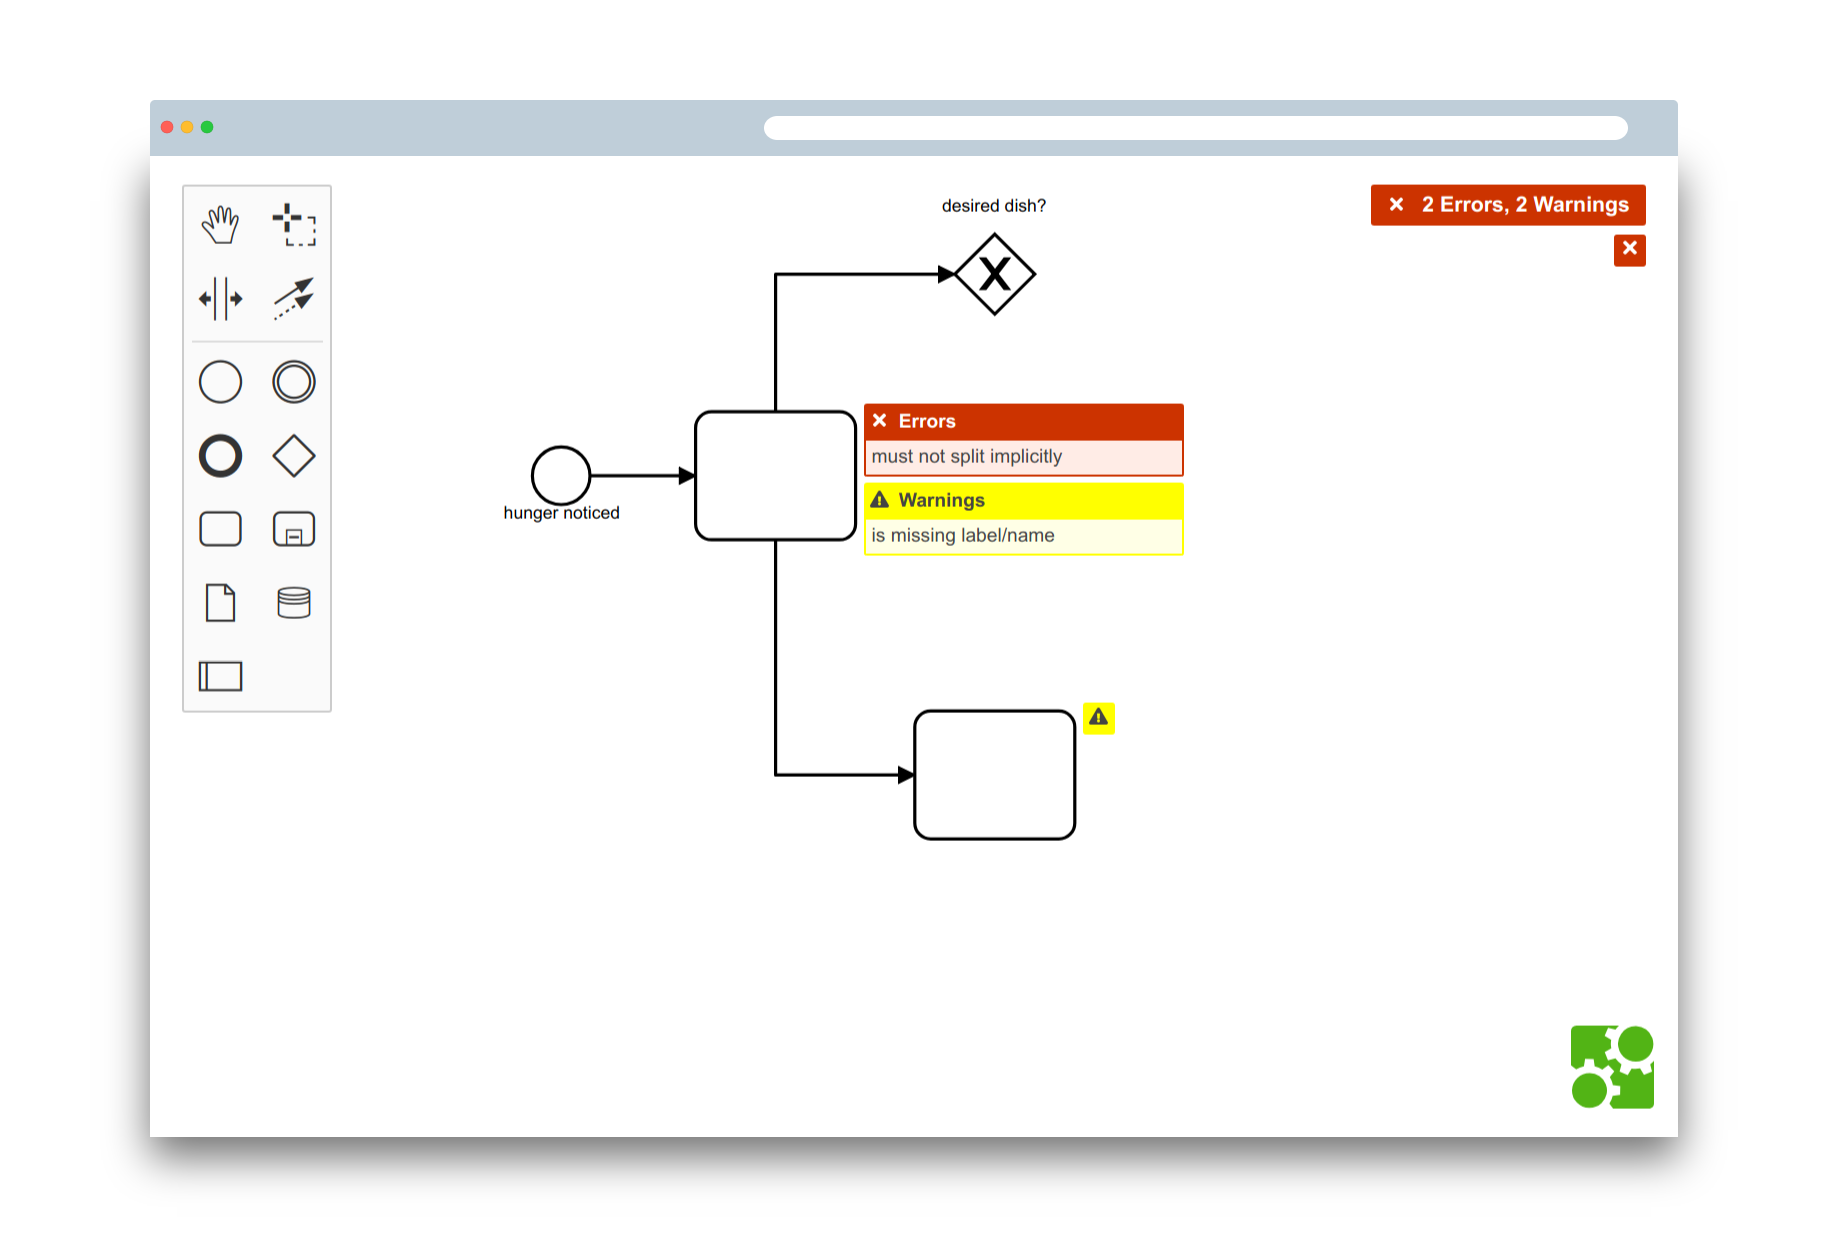
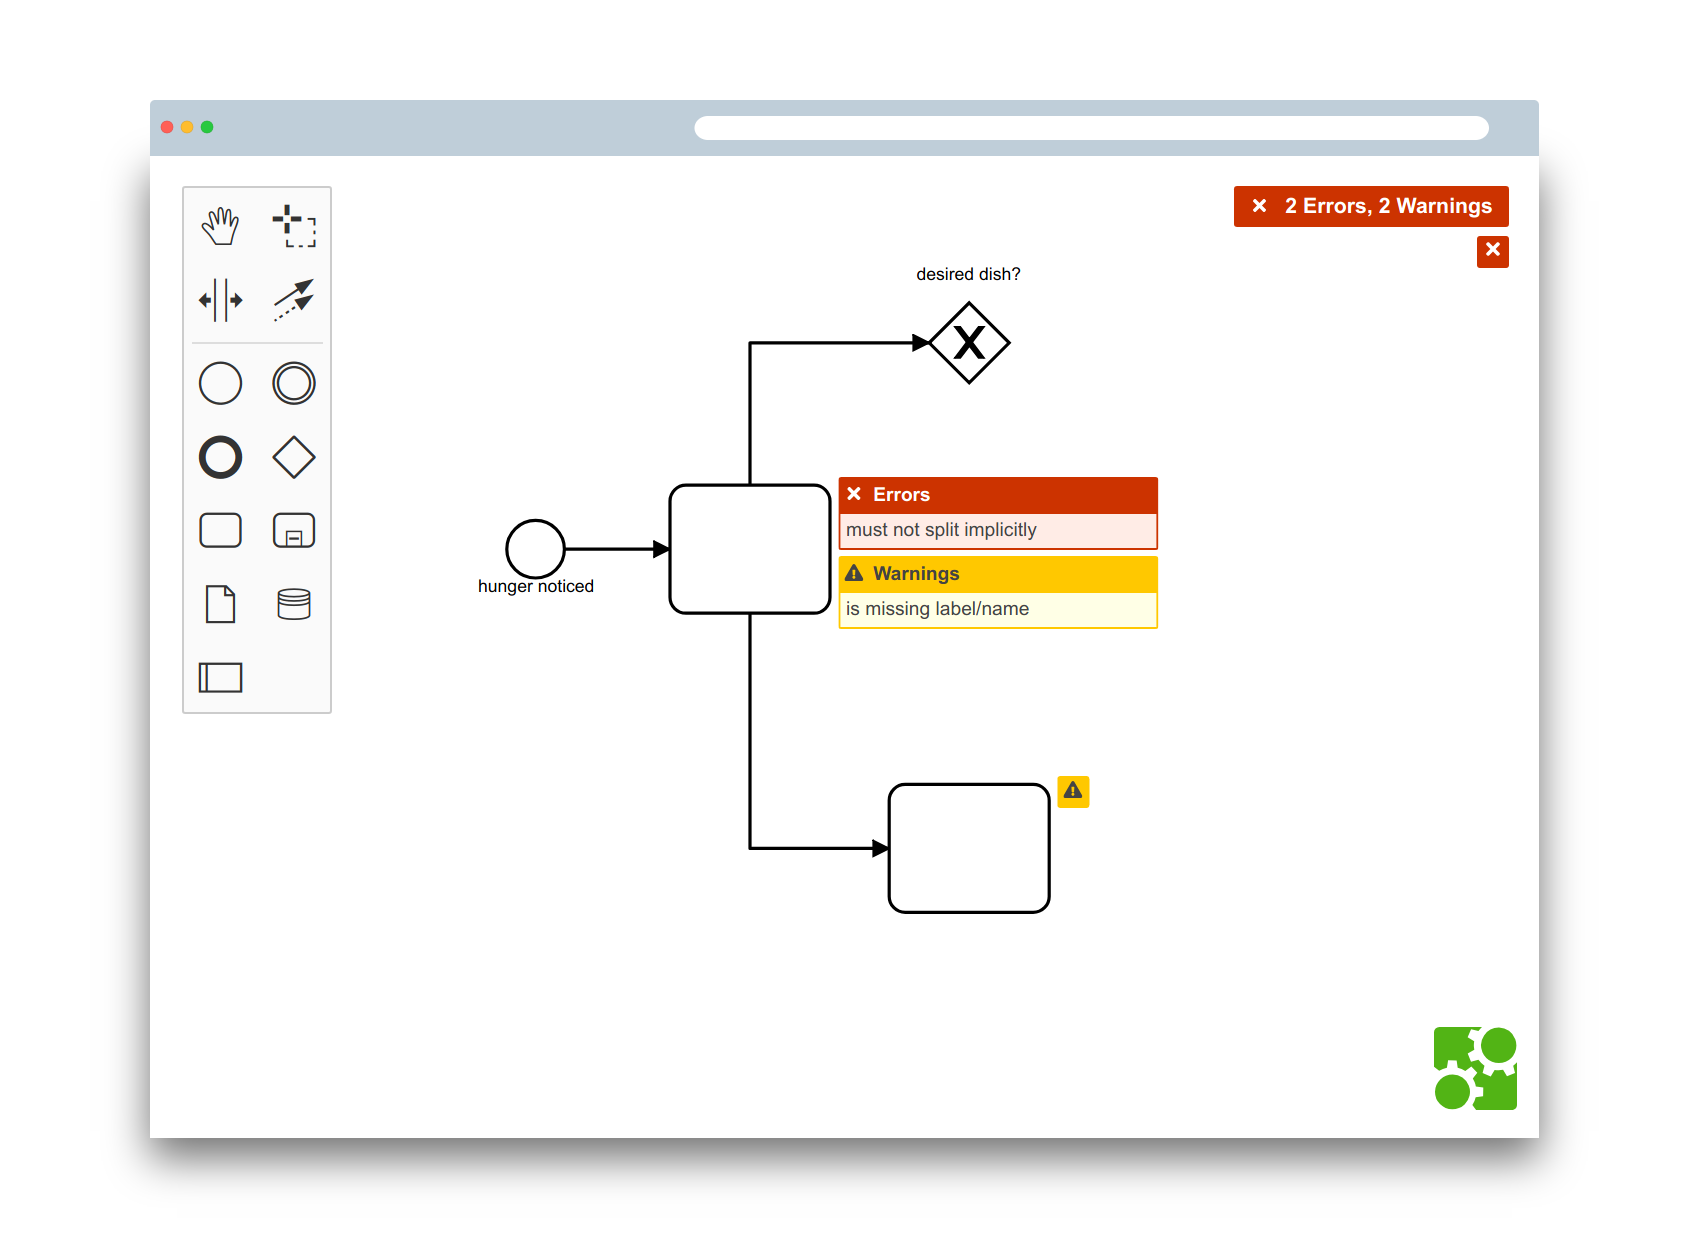
feat(Linting): make warnings less yellow
Ensure warnings are easy for the eye by giving them an orange touch.

diff --git a/assets/css/bpmn-js-bpmnlint.css b/assets/css/bpmn-js-bpmnlint.css
@@ -1,3 +1,9 @@
+.bpmn-js-bpmnlint-button,
+.bpmn-js-bpmnlint-issues .group,
+.bpmn-js-bpmnlint-issues .icons .icon {
+  border-radius: 2px;
+}
+
 .bpmn-js-bpmnlint-button {
   position: absolute;
   top: 20px;
@@ -5,7 +11,6 @@
   background-color: #fafafa;
   padding: 5px 10px;
   border: none;
-  border-radius: 2px;
   color: #ddd;
   display: flex;
   align-items: center;
@@ -33,7 +38,7 @@
 }
 
 .bpmn-js-bpmnlint-button.warning {
-  background-color: #ffff00;
+  background-color: #ffc800;
   color: #444;
 }
 
@@ -49,7 +54,6 @@
 }
 
 .bpmn-js-bpmnlint-issues .group {
-  border-radius: 2px;
   overflow: hidden;
   display: none;
 }
@@ -66,7 +70,6 @@
 
 .bpmn-js-bpmnlint-issues .icons .icon {
   display: inline-block;
-  border-radius: 2px;
   width: 20px;
   height: 20px;
   line-height: 23px;
@@ -79,11 +82,11 @@
 
 .bpmn-js-bpmnlint-issues .icons .icon.error {
   background: #cc3300;
-  color: #fff; 
+  color: #fff;
 }
 
 .bpmn-js-bpmnlint-issues .icons .icon.warning {
-  background: #ffff00;
+  background: #ffc800;
 }
 
 .bpmn-js-bpmnlint-issues:hover .icons {
@@ -111,7 +114,7 @@
 }
 
 .bpmn-js-bpmnlint-issues .header.warning {
-  background: #ffff00;
+  background: #ffc800;
 }
 
 .bpmn-js-bpmnlint-issues .collapsable {
@@ -137,16 +140,16 @@
 
 .bpmn-js-bpmnlint-issues .collapsable.warning {
   background-color: #ffffe6;
-  border-right: solid 1px #ffff00;
-  border-left: solid 1px #ffff00;
+  border-right: solid 1px #ffc800;
+  border-left: solid 1px #ffc800;
 }
 
 .bpmn-js-bpmnlint-issues .collapsable.warning:last-child {
-  border-bottom: solid 1px #ffff00;
+  border-bottom: solid 1px #ffc800;
 }
 
 .bpmn-js-bpmnlint-issues .collapsable.warning:hover {
-  background-color: #ffff00;
+  background-color: #ffc800;
 }
 
 .bpmn-js-bpmnlint-issues .details {
